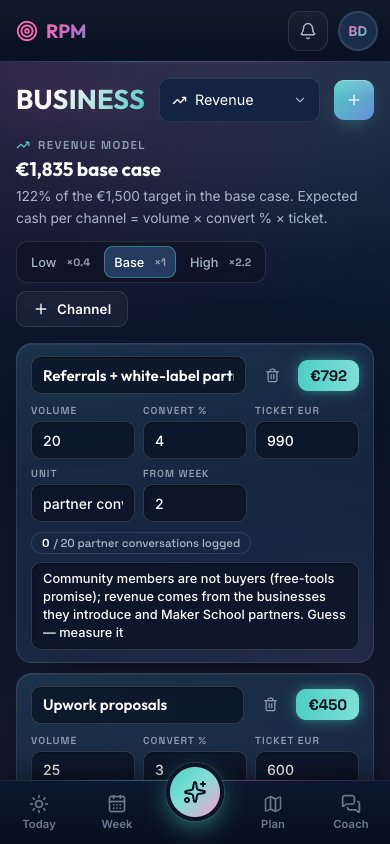
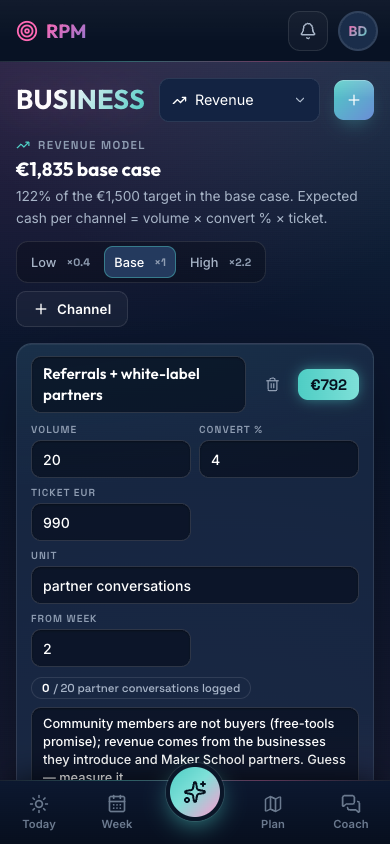
fix(business): critic round 3 — P0 blocks readiness, wrapped fix lanes, honest outcomes, fitted calendar, layout audit
- fixBlocks also derives effective readiness: an offer with any open P0 blocker is never ready
  (offerReadiness + stats.offersReady, unit-tested); Offers / Fixes / Overview / Products show it
  ("Blocked by a P0", with the typed value noted).
- Fix lanes wrap into rows; fixes tied to no offer get a full-width section below (never clipped).
- Overview outcomes: "No funnel outcomes yet · N other entries logged" (agrees with Results).
- Agents: setup collapses to a small "Runner setup" link while the runner checks in.
- Revenue on phones: wrapping name, two-column equation, full-width unit.
- Content: 14 days fit at desktop; phones snap exactly three whole days.
- components/LayoutAudit.jsx (dev only): outlines + counts clipped text (no ellipsis+title) and
  anything past the viewport's right edge, so every screenshot is also the check.
- Moves rail shows 4 before "Show all".

Changed region(s): [[0.0308, 0.4005, 0.9846, 0.9242]]

diff --git a/rpm-system/frontend/src/components/business/Sections.jsx b/rpm-system/frontend/src/components/business/Sections.jsx
@@ -42,7 +42,13 @@ const Port = ({ id, side = 'right', live = true }) => <span className={`bz-port 
 /** Blocker facts from the summary — the one backend answer every page shares (businessMoves.fixBlocks). */
 export function useBlocks() {
   const L = useBiz()?.sum?.flow?.links || {};
-  return { fixOffers: L.fixOffers || {}, offerBlockers: L.offerBlockers || {}, stats: L.blockStats || { p0Fixes: 0, offersBlockedByP0: 0, openFixes: 0, offersBlocked: 0 } };
+  return { fixOffers: L.fixOffers || {}, offerBlockers: L.offerBlockers || {}, offerReadiness: L.offerReadiness || {}, stats: L.blockStats || { p0Fixes: 0, offersBlockedByP0: 0, openFixes: 0, offersBlocked: 0, offersReady: 0 } };
+}
+/** Readiness as shown: a P0 blocker overrides what was typed (backend rule in fixBlocks). */
+export function readyOf(o, R = {}) {
+  const r = R[o?.id];
+  const value = r?.effective || o?.readiness || 'warn';
+  return { value, overridden: !!r?.p0Blocked && r.stored !== 'bad', label: r?.p0Blocked ? 'Blocked by a P0' : toneLabel(value), tone: TONE_CHIP[value] || 'info' };
 }
 
 // ───────────────────────── Offers ─────────────────────────
@@ -54,7 +60,7 @@ export function Offers() {
   const [root, setRoot] = useState(null);
   const phone = useMedia('(max-width: 900px)');
   const focus = ctx.params.get('focus');
-  const { fixOffers, offerBlockers, stats } = useBlocks();
+  const { fixOffers, offerBlockers, offerReadiness, stats } = useBlocks();
   const leads = ctx.sum?.flow?.leads || [];
 
   // deep link: /business/offers?edit=<id> opens the editor
@@ -68,7 +74,7 @@ export function Offers() {
   }))), [blockers, fixOffers]);
   const w = useWires(links);
   if (!list.rows || !fixes.rows) return <Loading />;
-  const ready = list.rows.filter((o) => o.readiness === 'ok').length;
+  const ready = list.rows.filter((o) => readyOf(o, offerReadiness).value === 'ok').length;
   const blockersOf = (oid) => (offerBlockers[oid]?.fixIds || []).map((id) => byId[id]).filter(Boolean);
   const interested = (o) => leads.filter((l) => l.offer && (shares(l.offer, o.name) || shares(l.offer, o.product))).length;
 
@@ -101,7 +107,7 @@ export function Offers() {
           )}
           <div className="bz-wired-right bz-offer-list">
             {list.rows.map((o) => (
-              <OfferSheet key={o.id} o={o} head={w.bind(`of:${o.id}`)} cls={w.cls(`of:${o.id}`)} focus={focus === o.id}
+              <OfferSheet key={o.id} o={o} ready={readyOf(o, offerReadiness)} head={w.bind(`of:${o.id}`)} cls={w.cls(`of:${o.id}`)} focus={focus === o.id}
                 blockers={blockersOf(o.id)} showBlockers={phone} interested={interested(o)} onEdit={() => ed.open(o)} />
             ))}
           </div>
@@ -112,11 +118,11 @@ export function Offers() {
   );
 }
 
-function OfferSheet({ o, head, cls, focus, blockers, showBlockers, interested, onEdit }) {
-  const pct = READINESS_PCT[o.readiness] ?? 50;
+function OfferSheet({ o, ready, head, cls, focus, blockers, showBlockers, interested, onEdit }) {
+  const pct = READINESS_PCT[ready.value] ?? 50;
   const hasMore = o.guarantee || o.bonuses?.length || o.deliverables?.length || o.first_line || o.qualify || o.weak_spots?.length || (o.value && Object.values(o.value).some(Boolean));
   return (
-    <article className={`bz-offer ready-${o.readiness} ${focus ? 'flash' : ''}`}>
+    <article className={`bz-offer ready-${ready.value} ${focus ? 'flash' : ''}`}>
       <header {...head} tabIndex={0} className={`bz-offer-head bz-node kind-offer ${cls}`}>
         <div className="bz-offer-title">
           <h3>{o.name}</h3>
@@ -126,7 +132,8 @@ function OfferSheet({ o, head, cls, focus, blockers, showBlockers, interested, o
         <button type="button" className="bz-icon-btn" aria-label={`Edit ${o.name}`} onClick={onEdit}><Pencil size={15} /></button>
       </header>
       <div className="bz-offer-meter">
-        <span className={`ui-chip ui-chip--${TONE_CHIP[o.readiness] || 'info'}`}>{toneLabel(o.readiness)}</span>
+        <span className={`ui-chip ui-chip--${ready.tone}`} title={ready.overridden ? `You set “${toneLabel(o.readiness)}”, but an open P0 fix blocks it` : undefined}>{ready.label}</span>
+        {ready.overridden && <span className="bz-ready-was">set: {toneLabel(o.readiness)}</span>}
         <div className="bz-meter" aria-label={`Readiness ${pct}%`}><i style={{ width: `${pct}%` }} /></div>
         {interested > 0 && <span className="bz-offer-int"><Users size={13} /> {interested} lead{interested === 1 ? '' : 's'}</span>}
       </div>
@@ -164,6 +171,7 @@ export function Products() {
   const [root, setRoot] = useState(null);
   const phone = useMedia('(max-width: 900px)');
   const offers = ctx.sum?.flow?.offers || [];
+  const { offerReadiness } = useBlocks();
   const today = todayStr();
   const links = useMemo(() => {
     const out = [];
@@ -219,7 +227,7 @@ export function Products() {
             <div className="bz-wired-side">
               <p className="bz-col-title"><Gift size={13} /> Powers</p>
               {powered.map((o) => (
-                <button key={o.id} type="button" {...w.bind(`po:${o.id}`)} className={`bz-node kind-offer ready-${o.readiness} ${w.cls(`po:${o.id}`)}`} onClick={() => ctx.go('offers', { focus: o.id })}>
+                <button key={o.id} type="button" {...w.bind(`po:${o.id}`)} className={`bz-node kind-offer ready-${readyOf(o, offerReadiness).value} ${w.cls(`po:${o.id}`)}`} onClick={() => ctx.go('offers', { focus: o.id })}>
                   <Gift size={14} aria-hidden="true" /><span className="bz-node-name">{o.name}</span>
                 </button>
               ))}
@@ -352,7 +360,7 @@ export function Fixes() {
   const [dragId, setDragId] = useState(null);
   const sensors = useSensors(useSensor(PointerSensor, { activationConstraint: { distance: 6 } }), useSensor(TouchSensor, { activationConstraint: { delay: 220, tolerance: 6 } }));
   const offers = ctx.sum?.flow?.offers || [];
-  const { fixOffers, offerBlockers, stats } = useBlocks();
+  const { fixOffers, offerBlockers, offerReadiness, stats } = useBlocks();
   // lanes depend on the summary's blocker map: wait for both so lanes never re-order under you
   if (!list.rows || !ctx.sum) return <Loading />;
   const rows = list.rows;
@@ -364,8 +372,7 @@ export function Fixes() {
   const lanes = offers.filter((o) => (offerBlockers[o.id]?.fixIds || []).some((id) => pass(byId[id])))
     .sort((a, b) => (offerBlockers[b.id].P0 - offerBlockers[a.id].P0) || (offerBlockers[b.id].fixIds.length - offerBlockers[a.id].fixIds.length))
     .map((o) => ({ id: o.id, offer: o, fixes: offerBlockers[o.id].fixIds.map((id) => byId[id]).filter(pass).sort((a, b) => a.severity.localeCompare(b.severity)) }));
-  const loose = open.filter((f) => pass(f) && !fixOffers[f.id]);
-  if (loose.length) lanes.push({ id: 'none', fixes: loose });
+  const loose = open.filter((f) => pass(f) && !fixOffers[f.id]).sort((a, b) => a.severity.localeCompare(b.severity));
 
   const relink = (f, lane) => {
     const v = lane === 'none' ? null : lane;
@@ -408,14 +415,21 @@ export function Fixes() {
             onDragEnd={(e) => { setDragId(null); if (e.over) relink(byId[String(e.active.id).split('@')[0]], e.over.id); }}>
             <div className="bz-board bz-offerlanes">
               {lanes.map((ln) => (
-                <OfferLane key={ln.id} id={ln.id} offer={ln.offer} counts={ln.id === 'none' ? null : offerBlockers[ln.id]} n={ln.fixes.length} dragging={!!dragId}>
+                <OfferLane key={ln.id} id={ln.id} offer={ln.offer} ready={ln.offer ? readyOf(ln.offer, offerReadiness) : null} counts={ln.id === 'none' ? null : offerBlockers[ln.id]} n={ln.fixes.length} dragging={!!dragId}>
                   {ln.fixes.map((f) => <FixCard key={`${f.id}@${ln.id}`} dragKey={`${f.id}@${ln.id}`} f={f} guessed={!!fixOffers[f.id] && !fixOffers[f.id].explicit} also={also(f, ln.id)}
                     focus={openId === f.id} onOpen={() => setOpenId(f.id)} onDone={() => toggleDone(f)} onConfirm={() => relink(f, ln.id)} />)}
                 </OfferLane>
               ))}
               {dragId && offers.filter((o) => !lanes.some((l) => l.id === o.id)).map((o) => <OfferLane key={o.id} id={o.id} offer={o} n={0} dragging />)}
-              {dragId && !loose.length && <OfferLane id="none" n={0} dragging />}
             </div>
+            {/* fixes tied to no offer: a full-width section under the lanes, never a clipped lane */}
+            {(loose.length > 0 || dragId) && (
+              <div className="bz-loose">
+                <OfferLane id="none" counts={null} n={loose.length} dragging={!!dragId}>
+                  {loose.map((f) => <FixCard key={`${f.id}@none`} dragKey={`${f.id}@none`} f={f} focus={openId === f.id} onOpen={() => setOpenId(f.id)} onDone={() => toggleDone(f)} />)}
+                </OfferLane>
+              </div>
+            )}
             <DragOverlay dropAnimation={null}>{dragFix ? <FixCard f={dragFix} overlay /> : null}</DragOverlay>
           </DndContext>
           {touch && <p className="bz-muted">Tap a fix to change the offer it blocks.</p>}
@@ -434,10 +448,10 @@ export function Fixes() {
   );
 }
 
-function OfferLane({ id, offer, counts, n, dragging, children }) {
+function OfferLane({ id, offer, ready, counts, n, dragging, children }) {
   const { setNodeRef, isOver } = useDroppable({ id });
   return (
-    <div ref={setNodeRef} className={`bz-lane bz-olane ${id === 'none' ? 'none' : `ready-${offer?.readiness}`} ${isOver ? 'over' : ''} ${dragging ? 'dropping' : ''}`}
+    <div ref={setNodeRef} className={`bz-lane bz-olane ${id === 'none' ? 'none' : `ready-${ready?.value}`} ${isOver ? 'over' : ''} ${dragging ? 'dropping' : ''}`}
       role="group" aria-label={id === 'none' ? 'Not tied to an offer' : `Blocks ${offer?.name}`}>
       <header className="bz-olane-head">
         {id === 'none' ? <><span className="bz-olane-cap"><Layers size={12} /> loose</span><b className="bz-olane-name">Not tied to an offer</b><span className="bz-olane-meta"><em className="bz-olane-n">{n}</em></span></> : (
@@ -445,7 +459,7 @@ function OfferLane({ id, offer, counts, n, dragging, children }) {
             <span className="bz-olane-cap"><Gift size={12} /> blocks</span>
             <b className="bz-olane-name">{offer?.name}</b>
             <span className="bz-olane-meta">
-              <span className={`ui-chip ui-chip--${TONE_CHIP[offer?.readiness] || 'info'}`}>{toneLabel(offer?.readiness)}</span>
+              {ready && <span className={`ui-chip ui-chip--${ready.tone}`}>{ready.label}</span>}
               {counts && SEV.map(([k]) => counts[k] > 0 && <em key={k} className={`bz-sev sev-${k}`}>{counts[k]} {k}</em>)}
             </span>
           </>

diff --git a/rpm-system/frontend/src/components/LayoutAudit.jsx b/rpm-system/frontend/src/components/LayoutAudit.jsx
@@ -1,0 +1,47 @@
+import { useEffect, useState } from 'react';
+
+// Dev-only layout invariant, rendered inside a page root (e.g. Business). After the page settles it checks
+// every element under `selector` and outlines + counts:
+//  1. clipped text — a leaf element or form field whose content is wider than its box while the box clips
+//     (overflow not visible), unless it deliberately ellipsizes AND carries a title with the full text;
+//  2. right-edge clipping — anything whose box runs past the viewport's right edge, unless it sits inside a
+//     horizontal scroller (then it must be reachable by scrolling, which is intended).
+// A red badge shows the count, so a static screenshot doubles as the check. Production builds render nothing.
+export default function LayoutAudit({ selector = '.biz-page', delay = 2000, version }) {
+  const [issues, setIssues] = useState([]);
+  useEffect(() => {
+    if (!import.meta.env.DEV) return undefined;
+    let t = 0;
+    const run = () => {
+      const root = document.querySelector(selector);
+      if (!root) return;
+      root.querySelectorAll('[data-layout-issue]').forEach((el) => el.removeAttribute('data-layout-issue'));
+      const W = document.documentElement.clientWidth;
+      const found = [];
+      const inScroller = (el) => { for (let p = el.parentElement; p && p !== root; p = p.parentElement) { const o = getComputedStyle(p).overflowX; if (o === 'auto' || o === 'scroll') return true; } return false; };
+      for (const el of root.querySelectorAll('*')) {
+        if (el.closest('.ui-links, svg, .modal-overlay:not(:has(.modal))')) continue;
+        const cs = getComputedStyle(el);
+        if (cs.display === 'none' || cs.visibility === 'hidden') continue;
+        const r = el.getBoundingClientRect();
+        if (!r.width || !r.height) continue;
+        if (r.right > W + 1 && cs.position !== 'fixed' && !inScroller(el)) { found.push({ el, why: 'past the right edge' }); continue; }
+        const field = el.tagName === 'INPUT' && !['checkbox', 'radio', 'number'].includes(el.type);
+        const leaf = field || el.tagName === 'TEXTAREA' || (!el.children.length && el.textContent.trim());
+        if (!leaf) continue;
+        const clips = field || cs.overflowX !== 'visible';
+        const wide = el.scrollWidth > el.clientWidth + 1;
+        const okEllipsis = cs.textOverflow === 'ellipsis' && (el.title || el.closest('[title]'));
+        if (clips && wide && !okEllipsis && !cs.webkitLineClamp?.match?.(/^\d/)) found.push({ el, why: 'text clipped' });
+      }
+      for (const f of found) f.el.setAttribute('data-layout-issue', f.why);
+      setIssues(found.map((f) => `${f.why}: ${(f.el.value || f.el.textContent || f.el.className || f.el.tagName).toString().trim().slice(0, 40)}`));
+    };
+    const req = () => { clearTimeout(t); t = setTimeout(run, delay); };
+    req();
+    window.addEventListener('resize', req);
+    return () => { clearTimeout(t); window.removeEventListener('resize', req); };
+  }, [selector, delay, version]);
+  if (!import.meta.env.DEV || !issues.length) return null;
+  return <div className="ui-layout-audit" role="status" title={issues.join('\n')}>{issues.length} layout issue{issues.length === 1 ? '' : 's'}</div>;
+}

diff --git a/rpm-system/frontend/src/components/business/Business.css b/rpm-system/frontend/src/components/business/Business.css
@@ -991,3 +991,37 @@
 .biz-page .bz-log-fields > .bz-in-note { flex: 1 1 220px; width: auto; }
 @media (max-width: 640px) { .biz-page .bz-log-fields > input.bz-in { flex: 1 1 100%; } }
 .biz-page .bz-cal-empty { top: 60%; left: 62%; }
+
+/* ───────── round 4 (critic 3) ───────── */
+.biz-page .bz-ready-was { font: 500 0.7rem var(--ui-mono); color: var(--text-muted); white-space: nowrap; }
+/* fix lanes wrap instead of scrolling off the page; loose fixes get a full-width section */
+@media (min-width: 901px) {
+  .biz-page .bz-board.bz-offerlanes { grid-auto-flow: row; grid-template-columns: repeat(auto-fill, minmax(260px, 1fr)); overflow: visible; }
+}
+@media (max-width: 900px) {
+  .biz-page .bz-board.bz-offerlanes { grid-auto-flow: row; grid-template-columns: minmax(0, 1fr); overflow: visible; }
+}
+.biz-page .bz-loose .bz-lane { background: rgba(6, 14, 30, 0.3); }
+.biz-page .bz-loose .bz-lane-body { display: grid; grid-template-columns: repeat(auto-fill, minmax(260px, 1fr)); gap: 8px; }
+.biz-page .bz-loose .bz-olane-head { flex-direction: row; align-items: baseline; gap: 10px; }
+/* content: 14 days fit the desktop width; phones show exactly 3 whole days per swipe */
+@media (min-width: 901px) {
+  .biz-page .bz-cal { grid-template-columns: 150px repeat(var(--days), minmax(0, 1fr)); min-width: 0; }
+  .biz-page .bz-cal-day { white-space: normal; line-height: 1.3; padding: 8px 4px; font-size: 0.62rem; }
+  .biz-page .bz-cal-wrap { overflow-x: visible; }
+}
+@media (max-width: 900px) {
+  .biz-page .bz-cal-wrap { scroll-snap-type: x mandatory; scroll-padding-left: 96px; }
+  .biz-page .bz-cal { grid-template-columns: 96px repeat(var(--days), calc((100vw - 32px - 2px - 96px) / 3)); }
+  .biz-page .bz-cal-day, .biz-page .bz-cal-cell { scroll-snap-align: start; }
+  .biz-page .bz-cal-chan { font-size: 0.74rem; padding: 8px 6px; }
+}
+/* revenue on phones: name wraps, equation in two columns, unit full width */
+.biz-page .bz-rev-name { field-sizing: content; resize: none; min-height: 38px; line-height: 1.35; }
+@media (max-width: 640px) {
+  .biz-page .bz-rev-eq { grid-template-columns: repeat(2, minmax(0, 1fr)); }
+  .biz-page .bz-rev-eq .bz-rev-unit { grid-column: 1 / -1; }
+}
+/* agents: when the runner is online, setup shrinks to a link */
+.biz-page details.bz-howto.mini:not([open]) { border: 0; background: none; padding: 4px 0; margin-top: 4px; }
+.biz-page details.bz-howto.mini:not([open]) > summary { font-size: 0.66rem; color: var(--text-muted); }

diff --git a/rpm-system/backend/test/businessMoves.test.js b/rpm-system/backend/test/businessMoves.test.js
@@ -141,7 +141,7 @@ test('fixBlocks: one fix may block many offers; every page reads the same counts
   assert.deepEqual(offerBlockers.inbox, { fixIds: ['bison'], P0: 1, P1: 0, P2: 0 });
   assert.deepEqual(offerBlockers.proof, { fixIds: ['bison'], P0: 1, P1: 0, P2: 0 });
   assert.deepEqual(offerBlockers.pack, { fixIds: ['agp', 'pinned'], P0: 1, P1: 1, P2: 0 });
-  assert.deepEqual(stats, { openFixes: 4, p0Fixes: 3, p0Linked: 2, offersBlocked: 3, offersBlockedByP0: 3 });
+  assert.deepEqual(stats, { openFixes: 4, p0Fixes: 3, p0Linked: 2, offersBlocked: 3, offersBlockedByP0: 3, offers: 3, offersReady: 0 });
   // buildLinks and the moves use the same answer
   const links = buildLinks({ fixes, offers });
   assert.deepEqual(links.offerBlockers, offerBlockers);
@@ -149,4 +149,23 @@ test('fixBlocks: one fix may block many offers; every page reads the same counts
   const moves = computeMoves({ today: TODAY, fixes, offers });
   assert.equal(moves.find((m) => m.id === 'p0:bison').title, 'P0 blocks The 2-Minute Inbox + 48-Hour Reply Proof');
   assert.deepEqual(moves.find((m) => m.id === 'p0:bison').entity.offers, ['inbox', 'proof']);
+});
+
+test('fixBlocks: an offer with any open P0 blocker is never ready', () => {
+  const offers = [
+    { id: 'pack', name: 'Prospect List Pack', product: 'LeadWave', readiness: 'ok' },
+    { id: 'inbox', name: 'The 2-Minute Inbox', product: 'Reply Autopilot', readiness: 'ok' },
+    { id: 'proof', name: '48-Hour Reply Proof', product: 'Reply Autopilot', readiness: 'warn' },
+  ];
+  const fixes = [
+    { id: 'agp', severity: 'P0', done: false, text: 'Remove AGP section from the live LeadWave page' },
+    { id: 'p1', severity: 'P1', done: false, text: 'Reply Autopilot tenant hole' },
+    { id: 'old', severity: 'P0', done: true, text: 'Reply Autopilot old P0' },
+  ];
+  const { offerReadiness, stats } = fixBlocks(fixes, offers);
+  assert.deepEqual(offerReadiness.pack, { stored: 'ok', effective: 'bad', p0Blocked: true }, 'P0 overrides "ok"');
+  assert.deepEqual(offerReadiness.inbox, { stored: 'ok', effective: 'ok', p0Blocked: false }, 'P1 and done P0 do not');
+  assert.equal(offerReadiness.proof.effective, 'warn');
+  assert.equal(stats.offersReady, 1);
+  assert.equal(buildLinks({ fixes, offers }).blockStats.offersReady, 1, 'the summary carries the same number');
 });

diff --git a/rpm-system/frontend/src/components/business/Overview.jsx b/rpm-system/frontend/src/components/business/Overview.jsx
@@ -174,8 +174,8 @@ export default function Overview({ go }) {
               ))}
               {g.liveOutcomes.length === 0 && (
                 <button type="button" {...nodeProps('out:none', 'kind-out quiet')} onClick={() => go('results', { log: 1 })}>
-                  <span className="bz-node-name">Nothing logged yet</span>
-                  <small className="bz-node-sub">Log the first message →</small>
+                  <span className="bz-node-name">No funnel outcomes yet</span>
+                  <small className="bz-node-sub">{s.counts?.results ? `${s.counts.results} other entr${s.counts.results === 1 ? 'y' : 'ies'} logged (notes, posts) · ` : ''}log a message →</small>
                 </button>
               )}
             </Column>
@@ -205,7 +205,7 @@ export default function Overview({ go }) {
         </section>
 
         <aside className="bz-rail" id="bz-moves">
-          <NextMoves moves={s.moves} onFocus={setMoveFocus} limit={3} compact={phone} />
+          <NextMoves moves={s.moves} onFocus={setMoveFocus} limit={phone ? 3 : 4} compact={phone} />
           {(s.next?.actions?.length > 0 || s.next?.products?.length > 0) && (
             <section className="bz-rpmnext" aria-label="Next in RPM">
               <p className="ui-kicker"><ListChecks size={14} /> Next in RPM</p>
@@ -246,7 +246,7 @@ export default function Overview({ go }) {
             </div>
             <div className="bz-band-col" data-node-group="offers">
               {g.bandOffers.map((o) => (
-                <button key={o.id} type="button" {...nodeProps(`offer:${o.id}`, `kind-offer ready-${o.readiness}`)} onClick={() => go('offers', { focus: o.id })}>
+                <button key={o.id} type="button" {...nodeProps(`offer:${o.id}`, `kind-offer ready-${s.flow?.links?.offerReadiness?.[o.id]?.effective || o.readiness}`)} onClick={() => go('offers', { focus: o.id })}>
                   <Gift size={14} aria-hidden="true" />
                   <span className="bz-node-name">{o.name}</span>
                   <small className="bz-node-sub">{g.blockCount[o.id]} blocker{g.blockCount[o.id] === 1 ? '' : 's'}</small>

diff --git a/rpm-system/backend/src/businessMoves.js b/rpm-system/backend/src/businessMoves.js
@@ -88,7 +88,16 @@ function fixBlocks(fixes = [], offers = []) {
   }
   stats.offersBlocked = Object.keys(offerBlockers).length;
   stats.offersBlockedByP0 = Object.values(offerBlockers).filter((b) => b.P0 > 0).length;
-  return { fixOffers, offerBlockers, stats };
+  // Readiness the pages show: an offer with any open P0 blocker is never ready, whatever was typed in.
+  // effective: 'bad' when a P0 blocks it, else the stored readiness. ready = effective === 'ok'.
+  const offerReadiness = {};
+  for (const o of offers) {
+    const p0 = offerBlockers[o.id]?.P0 || 0;
+    offerReadiness[o.id] = { stored: o.readiness || 'warn', effective: p0 ? 'bad' : (o.readiness || 'warn'), p0Blocked: p0 > 0 };
+  }
+  stats.offers = offers.length;
+  stats.offersReady = Object.values(offerReadiness).filter((r) => r.effective === 'ok').length;
+  return { fixOffers, offerBlockers, offerReadiness, stats };
 }
 
 /** All link maps the flow canvas needs. */
@@ -102,10 +111,10 @@ function buildLinks({ leads = [], channels = [], fixes = [], offers = [], model 
     leadChannel[l.id] = c;
     if (norm(l.source) !== norm(channels.find((x) => x.id === c)?.name)) leadChannelGuess[l.id] = true;
   }
-  const { fixOffers, offerBlockers, stats: blockStats } = fixBlocks(fixes, offers);
+  const { fixOffers, offerBlockers, offerReadiness, stats: blockStats } = fixBlocks(fixes, offers);
   const resultModel = {};
   for (const ch of resultChannels) { const m = matchModel(ch, model); if (m) resultModel[ch] = m; }
-  return { leadChannel, leadChannelGuess, fixOffers, offerBlockers, blockStats, resultModel };
+  return { leadChannel, leadChannelGuess, fixOffers, offerBlockers, offerReadiness, blockStats, resultModel };
 }
 
 // ───────── next best moves ─────────

diff --git a/rpm-system/frontend/src/components/business/Revenue.jsx b/rpm-system/frontend/src/components/business/Revenue.jsx
@@ -103,7 +103,7 @@ export default function Revenue() {
               return (
                 <article key={c.id || i} className="bz-rev-row" onMouseEnter={() => setHover(i)} onMouseLeave={() => setHover(null)}>
                   <header className="bz-rev-head">
-                    <input className="bz-in bz-rev-name" aria-label="Channel name" placeholder="Channel name" value={c.name} onChange={(e) => set(i, 'name', e.target.value)} />
+                    <textarea rows={1} className="bz-in bz-rev-name" aria-label="Channel name" placeholder="Channel name" value={c.name} onChange={(e) => set(i, 'name', e.target.value.replace(/\n/g, ' '))} />
                     <button type="button" className="bz-icon-btn" aria-label={`Remove ${c.name || 'channel'}`} onClick={() => setModel((m) => m.filter((_, j) => j !== i))}><Trash2 size={15} /></button>
                     <span className={`bz-rev-cash ${v > 0 ? '' : 'quiet'}`}>{money(v, cur)}</span>
                   </header>

diff --git a/rpm-system/frontend/src/pages/BusinessPage.jsx b/rpm-system/frontend/src/pages/BusinessPage.jsx
@@ -4,6 +4,7 @@ import {
   Workflow, Users, Gift, TrendingUp, Package, Radio, Wrench, Library, BarChart3, CalendarDays, Bot, Plus,
 } from 'lucide-react';
 import Picker from '../components/Picker';
+import LayoutAudit from '../components/LayoutAudit';
 import { useToast } from '../components/ToastProvider';
 import ModalHead from '../components/modals/ModalHead';
 import Overview from '../components/business/Overview';
@@ -172,6 +173,7 @@ export default function BusinessPage() {
         {state.err && !sum ? <p className="biz-err">{state.err}</p> : <View key={view.id} go={go} />}
         {quick && <QuickAdd section={quick} onClose={() => setQuick(null)} />}
         {undo.view}
+        <LayoutAudit selector=".biz-page" version={`${view.id}-${state.version}-${!!sum}`} />
       </div>
     </BizContext.Provider>
   );

diff --git a/rpm-system/frontend/src/components/business/Agents.jsx b/rpm-system/frontend/src/components/business/Agents.jsx
@@ -195,8 +195,8 @@ export default function Agents() {
               </button>
             );
           })}
-          <details className="bz-howto">
-            <summary className="ui-kicker"><Wifi size={13} /> Setup — connect your runner</summary>
+          <details className={`bz-howto ${online ? 'mini' : ''}`}>
+            <summary className="ui-kicker"><Wifi size={13} /> {online ? 'Runner setup' : 'Setup — connect your runner'}</summary>
             <ol>
               <li>Create an access token with <b>write</b> scope in Settings.</li>
               <li>Your local runner polls <code>POST /api/business/agent-runs/claim</code> — each poll is a check-in.</li>

diff --git a/rpm-system/frontend/src/styles/ui.css b/rpm-system/frontend/src/styles/ui.css
@@ -206,3 +206,7 @@ body:has(.vorb-root) .main-content:not(:has(.asst)) { padding-bottom: calc(var(-
 @media (max-width: 640px) {
   body:has(.vorb-root) .main-content:not(:has(.asst)) { padding-bottom: calc(var(--spacing-md) + 76px + var(--tabbar-h, 0px)); }
 }
+
+/* dev-only: components/LayoutAudit.jsx */
+[data-layout-issue] { outline: 2px dashed #ff2d2d !important; outline-offset: 1px; }
+.ui-layout-audit { position: fixed; left: 12px; bottom: 12px; z-index: 4000; padding: 4px 10px; border-radius: 8px; background: #ff2d2d; color: #fff; font: 700 0.78rem 'Space Grotesk', sans-serif; }
